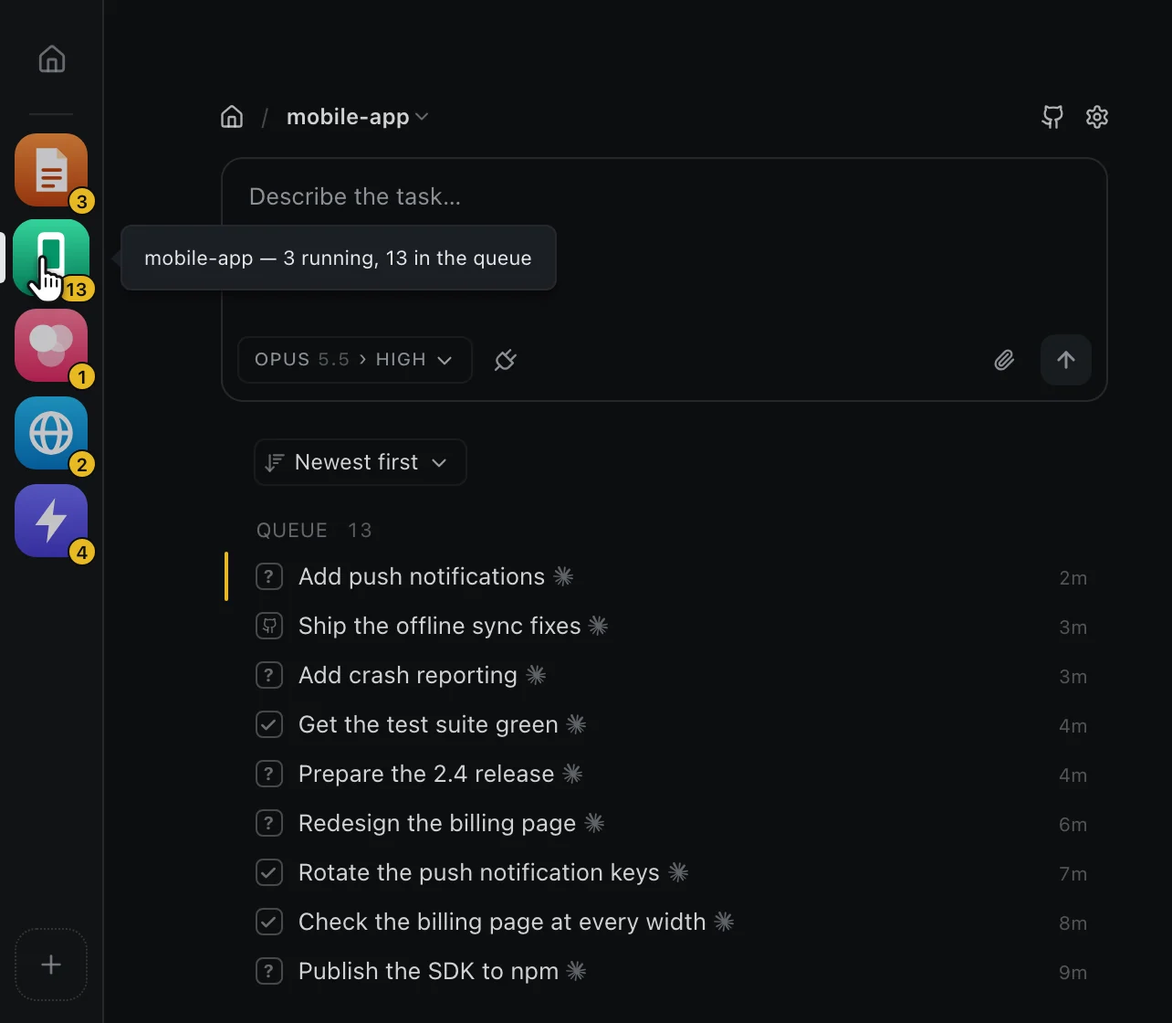
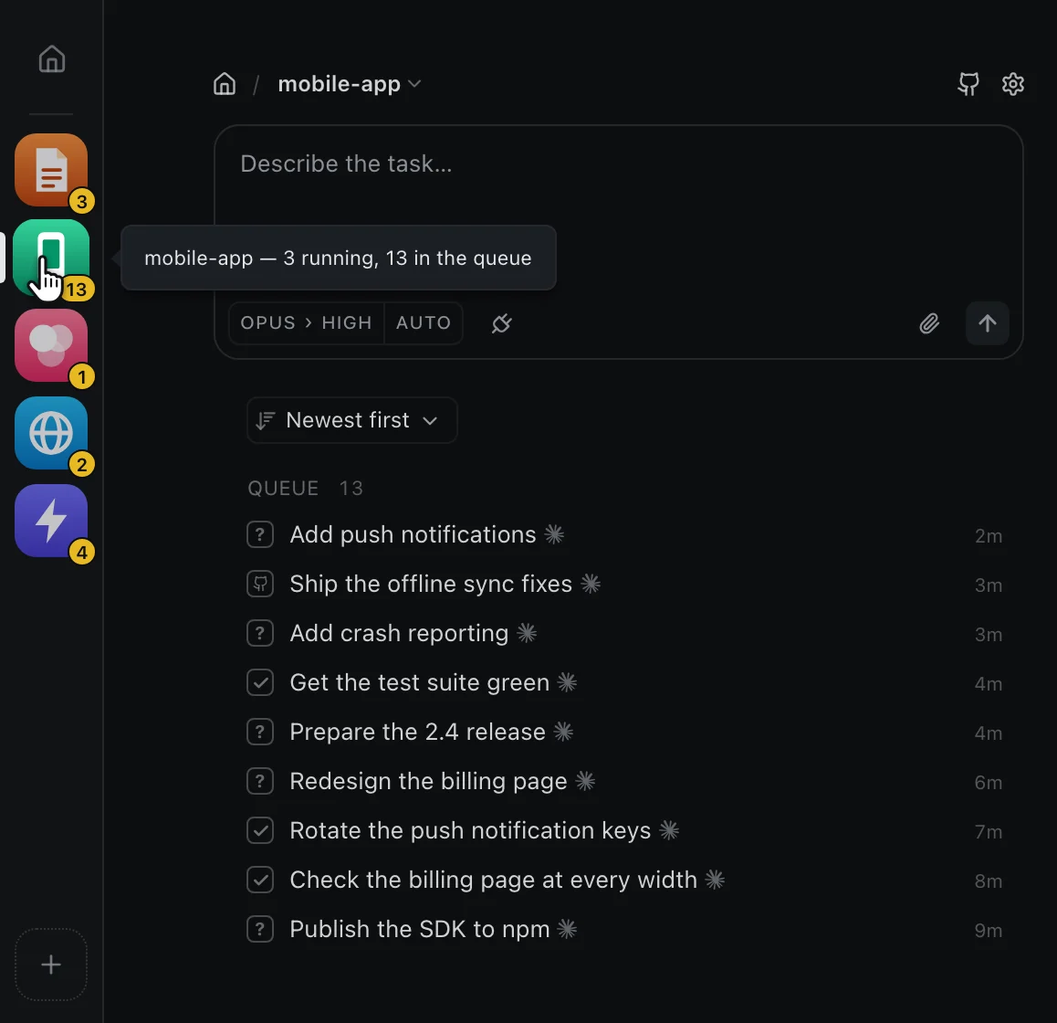
docs(site): rewrite frizz.sh and the README for the one-thread pane
Reshoots the board-dependent screenshots on the pane (hero, Console, workspace, queue, GitHub sign-in;
README board, snooze, goal), re-places the hero callouts on the new layout, and replaces copy that
described the deleted queue card. The README's projects picture becomes the current home page.
shoot-site.mjs targets the pane; the scene seed pins Opus/high so the new-thread box shows the default.

diff --git a/site/index.html b/site/index.html
@@ -4,7 +4,7 @@
     <meta charset="utf-8" />
     <meta name="viewport" content="width=device-width, initial-scale=1" />
     <title>Frizz — the agent console for extreme productivity</title>
-    <meta name="description" content="A web app that runs on your machine. Run many Claude Code, Codex and OpenCode agents from one browser tab; every agent that needs you becomes a card in one queue. No account, no telemetry." />
+    <meta name="description" content="A web app that runs on your machine. Run many Claude Code, Codex and OpenCode agents from one browser tab; every agent that needs you joins one queue. No account, no telemetry." />
     <link rel="canonical" href="https://frizz.sh/" />
     <meta property="og:type" content="website" />
     <meta property="og:title" content="Frizz — the agent console for extreme productivity" />
@@ -57,7 +57,7 @@
             <svg viewBox="144.5 41.7 435.4 428.5"><path class="mark-path" pathLength="1" d="M170.9 260.4C174.5 260.0 185.6 258.7 192.5 257.7C199.4 256.7 206.2 255.5 212.1 254.3C218.0 253.1 222.8 252.0 227.9 250.6C233.0 249.1 238.1 247.6 242.6 245.8C247.1 244.1 251.3 242.2 255.0 240.2C258.7 238.2 262.0 236.1 265.0 233.9C268.0 231.7 270.4 229.6 273.0 227.0C275.6 224.4 278.1 221.5 280.4 218.2C282.7 214.9 284.8 211.4 286.8 207.3C288.7 203.2 290.6 198.5 292.0 193.8C293.5 189.0 294.7 184.1 295.6 178.6C296.6 173.1 297.4 166.7 297.8 160.7C298.2 154.7 298.3 148.9 298.1 142.7C297.9 136.4 297.4 129.3 296.6 123.2C295.8 117.2 294.6 111.3 293.3 106.4C292.0 101.5 290.9 98.2 288.7 93.8C286.6 89.5 282.5 83.4 280.4 80.3C278.3 77.2 277.6 76.8 276.0 75.2C274.4 73.7 272.5 72.1 271.0 71.1C269.4 70.0 268.3 69.5 266.9 69.0C265.5 68.5 264.0 68.1 262.5 68.1C261.1 68.1 259.3 68.4 258.0 68.8C256.8 69.1 256.2 69.3 254.9 70.2C253.6 71.1 251.6 72.9 250.3 74.2C249.0 75.5 248.2 76.4 247.1 78.0C246.0 79.6 244.8 81.5 243.7 83.7C242.5 86.0 241.5 87.7 240.2 91.7C239.0 95.7 237.1 101.9 235.9 108.0C234.8 114.1 233.8 122.5 233.3 128.4C232.7 134.4 232.7 138.8 232.6 143.7C232.5 148.5 232.7 153.4 232.9 157.7C233.1 162.0 233.4 165.6 233.9 169.5C234.4 173.4 234.4 174.3 236.0 181.3C237.6 188.4 237.5 189.6 243.5 211.8C249.6 233.9 266.6 293.8 272.2 314.5C277.8 335.2 275.9 330.1 277.0 335.8C278.1 341.6 278.4 344.1 278.8 348.9C279.2 353.6 279.4 359.3 279.4 364.4C279.5 369.5 279.3 374.4 279.0 379.5C278.7 384.5 278.2 390.3 277.5 394.9C276.9 399.6 276.2 403.5 275.4 407.5C274.5 411.5 273.3 415.7 272.2 419.0C271.1 422.3 270.2 424.5 268.9 427.1C267.6 429.8 265.8 432.7 264.3 434.8C262.7 437.0 261.1 438.6 259.6 439.9C258.0 441.3 256.4 442.2 254.9 442.9C253.4 443.5 252.1 443.9 250.4 443.9C248.6 443.9 246.4 443.5 244.6 442.8C242.7 442.1 241.1 441.1 239.2 439.6C237.3 438.1 235.2 436.1 233.3 433.8C231.3 431.5 229.4 428.7 227.6 425.9C225.8 423.1 224.0 419.9 222.7 417.0C221.3 414.1 220.4 411.6 219.5 408.5C218.6 405.5 217.8 402.7 217.1 398.9C216.3 395.0 215.5 389.8 215.0 385.5C214.5 381.3 214.2 377.5 214.0 373.4C213.8 369.2 213.8 364.9 213.8 360.6C213.9 356.3 214.1 352.0 214.5 347.7C214.9 343.4 215.5 338.7 216.1 334.9C216.7 331.1 217.3 328.3 218.1 325.0C218.9 321.6 219.7 318.7 221.1 314.8C222.5 311.0 224.6 305.8 226.6 301.9C228.6 298.1 230.7 294.9 233.3 291.5C235.9 288.2 238.8 285.0 242.1 282.0C245.5 279.1 249.5 276.3 253.2 273.9C257.0 271.6 260.7 269.8 264.9 268.0C269.1 266.2 273.6 264.6 278.4 263.1C283.3 261.6 285.4 260.9 294.0 259.0C302.6 257.1 321.9 253.4 330.1 251.6C338.3 249.7 339.4 249.1 343.1 247.8C346.9 246.6 349.5 245.7 352.8 244.2C356.0 242.8 359.6 241.1 362.9 239.2C366.3 237.3 369.8 235.0 372.8 232.7C375.8 230.4 378.2 228.1 380.8 225.4C383.3 222.7 386.0 219.0 387.9 216.2C389.8 213.5 390.9 211.5 392.2 208.9C393.5 206.2 394.5 204.7 395.9 200.4C397.4 196.1 399.7 189.4 401.0 183.1C402.3 176.8 403.3 170.0 403.8 162.8C404.4 155.5 404.5 147.1 404.2 139.7C403.9 132.2 403.1 124.8 402.1 118.3C401.0 111.8 398.9 104.7 397.8 100.7C396.6 96.7 396.3 96.7 395.2 94.3C394.0 91.9 392.4 89.0 390.9 86.6C389.5 84.2 387.9 82.0 386.4 80.0C384.9 78.1 383.3 76.4 382.0 75.0C380.6 73.6 379.5 72.7 378.2 71.8C376.9 70.9 375.6 70.0 374.2 69.4C372.8 68.8 371.1 68.4 369.9 68.2C368.7 68.0 368.2 68.0 366.9 68.2C365.7 68.4 363.7 69.0 362.4 69.6C361.1 70.1 360.8 70.1 359.3 71.5C357.7 73.0 354.9 75.8 353.0 78.5C351.1 81.2 349.5 84.2 347.9 88.0C346.3 91.8 344.8 96.5 343.6 101.2C342.4 105.9 341.6 110.5 340.8 116.0C340.0 121.5 339.4 126.7 339.1 134.1C338.8 141.5 339.0 154.3 339.2 160.3C339.4 166.2 339.6 166.2 340.1 169.8C340.7 173.4 340.7 174.7 342.3 181.8C343.9 188.8 344.1 190.9 349.9 212.3C355.7 233.6 371.7 289.5 377.2 309.8C382.7 330.1 381.6 327.6 382.9 334.2C384.2 340.7 384.5 344.1 385.0 349.3C385.5 354.4 385.6 359.8 385.6 364.9C385.6 370.0 385.5 374.9 385.2 380.0C384.9 385.1 384.3 390.8 383.7 395.5C383.1 400.1 382.4 404.0 381.5 407.9C380.6 411.9 379.5 415.9 378.3 419.4C377.0 423.0 375.6 426.4 374.0 429.4C372.4 432.3 370.3 435.2 368.6 437.2C366.9 439.2 365.4 440.3 363.9 441.4C362.3 442.4 360.8 443.1 359.3 443.5C357.8 443.9 356.5 444.1 354.8 443.8C353.1 443.6 350.9 443.0 349.1 442.1C347.3 441.1 345.5 439.8 343.9 438.4C342.3 436.9 341.0 435.6 339.2 433.5C337.5 431.4 335.4 428.4 333.6 425.6C331.9 422.9 330.2 419.8 328.9 416.9C327.5 414.0 326.5 411.3 325.6 408.2C324.7 405.1 323.9 401.9 323.2 398.4C322.5 395.0 322.0 393.3 321.4 387.4C320.9 381.4 320.1 368.9 320.0 362.7C319.9 356.4 320.2 354.1 320.5 349.8C320.9 345.5 321.4 340.7 322.0 336.9C322.5 333.1 323.1 330.3 323.9 327.0C324.6 323.6 325.3 320.7 326.6 316.8C328.0 312.8 329.8 307.8 332.0 303.5C334.2 299.3 336.9 294.9 339.7 291.2C342.5 287.6 345.3 284.7 348.6 281.8C351.9 278.9 355.7 276.2 359.7 273.8C363.8 271.3 368.7 269.0 373.0 267.2C377.2 265.4 380.4 264.3 385.1 262.9C389.7 261.6 392.0 260.8 400.6 258.9C409.3 257.0 428.6 253.3 436.7 251.5C444.9 249.6 446.0 248.9 449.8 247.7C453.5 246.5 455.7 245.7 459.2 244.1C462.8 242.5 467.5 240.2 470.9 238.2C474.2 236.3 476.6 234.6 479.3 232.4C482.0 230.3 484.7 227.9 487.2 225.1C489.7 222.4 492.5 218.7 494.4 215.9C496.2 213.1 497.3 211.1 498.6 208.5C499.9 205.8 501.2 203.0 502.3 200.0C503.5 196.9 504.6 193.5 505.5 190.2C506.4 186.9 506.9 185.6 507.8 180.1C508.6 174.6 509.9 163.1 510.4 157.1C510.9 151.1 510.6 148.4 510.6 144.2C510.5 140.0 510.5 137.2 509.9 131.8C509.3 126.3 507.8 116.1 507.0 111.5C506.1 106.8 505.8 106.4 505.0 103.8C504.2 101.2 503.3 98.5 502.1 95.8C500.8 93.1 499.3 90.3 497.7 87.6C496.1 84.9 494.0 81.9 492.4 79.8C490.8 77.6 489.5 76.3 487.9 74.8C486.3 73.2 484.4 71.7 482.8 70.7C481.3 69.7 479.9 69.2 478.7 68.8C477.5 68.4 477.3 68.1 475.8 68.2C474.3 68.2 471.8 68.2 469.8 69.0C467.8 69.8 465.6 71.2 463.6 73.2C461.6 75.2 459.4 78.0 457.6 80.9C455.9 83.8 454.4 87.0 453.1 90.4C451.8 93.9 450.7 97.3 449.7 101.7C448.7 106.0 447.6 111.5 446.9 116.5C446.2 121.6 445.7 125.0 445.4 132.0C445.1 139.0 445.2 152.5 445.3 158.6C445.4 164.6 445.7 164.9 446.2 168.4C446.6 172.0 446.4 172.6 448.1 180.0C449.8 187.4 450.1 190.2 456.2 212.8C462.3 235.4 479.2 294.6 484.9 315.6C490.5 336.5 488.8 332.2 489.9 338.6C491.0 345.0 491.2 348.6 491.5 353.9C491.8 359.2 491.9 364.6 491.8 370.3C491.6 376.1 491.3 382.7 490.7 388.2C490.2 393.8 489.5 398.6 488.6 403.5C487.6 408.4 486.5 413.3 485.0 417.7C483.6 422.1 481.7 426.4 480.0 429.7C478.2 433.0 476.4 435.4 474.4 437.5C472.5 439.6 470.3 441.4 468.2 442.4C466.2 443.5 463.9 443.8 462.2 443.9C460.4 444.0 459.5 443.7 457.8 443.1C456.2 442.5 454.1 441.4 452.4 440.2C450.7 439.0 449.2 437.6 447.5 435.8C445.8 434.0 443.9 431.6 442.2 429.3C440.6 427.0 439.0 424.4 437.6 421.9C436.2 419.4 435.1 417.1 434.0 414.5C432.9 411.8 432.0 409.1 431.2 406.0C430.3 402.9 429.6 399.5 428.9 395.9C428.3 392.3 427.7 388.5 427.3 384.6C426.9 380.6 426.5 376.5 426.4 372.4C426.2 368.2 426.1 363.9 426.2 359.6C426.4 355.3 426.6 350.9 427.0 346.6C427.4 342.4 428.0 337.7 428.7 333.9C429.3 330.1 429.9 327.2 430.8 323.9C431.6 320.6 432.7 317.0 433.8 313.9C434.9 310.8 435.7 308.4 437.4 305.1C439.1 301.8 441.3 297.6 443.8 294.1C446.3 290.6 449.4 286.9 452.4 284.0C455.4 281.0 458.2 278.8 461.9 276.3C465.7 273.8 470.3 271.2 474.9 269.1C479.5 267.0 484.1 265.2 489.5 263.5C494.9 261.8 500.7 260.3 507.3 258.8C513.9 257.3 521.8 255.9 529.4 254.7C537.1 253.5 549.3 252.1 553.3 251.6" fill="none" stroke="url(#fffInk)" stroke-width="20.73" stroke-linecap="round" stroke-linejoin="round"/></svg>
           </div>
           <h1 class="rise d1">The <span class="swashed"><span>agent console</span><svg class="swash" viewBox="0 0 400 44" preserveAspectRatio="none" aria-hidden="true"><path d="M6 30 C 70 22, 150 17, 236 16.5 C 300 16, 352 18, 394 23" fill="none" stroke="url(#swashInk)" stroke-linecap="round" stroke-linejoin="round" vector-effect="non-scaling-stroke"/></svg></span> for extreme productivity.</h1>
-          <p class="sub rise d2">A web app that runs on your own machine. Start as many Claude&nbsp;Code, Codex and OpenCode agents as you like from one browser tab and let them work: the moment one needs you, it becomes a card in a single queue.</p>
+          <p class="sub rise d2">A web app that runs on your own machine. Start as many Claude&nbsp;Code, Codex and OpenCode agents as you like from one browser tab and let them work: the moment one needs you, it joins a single queue.</p>
           <div class="cta rise d3">
             <div class="install" data-copy="npx frizz"><span class="dollar" aria-hidden="true">$</span><code class="cmd">npx frizz</code><button class="copy" type="button" aria-label="Copy npx frizz"><svg class="idle" viewBox="0 0 24 24" aria-hidden="true"><rect width="14" height="14" x="8" y="8" rx="2" ry="2"/><path d="M4 16c-1.1 0-2-.9-2-2V4c0-1.1.9-2 2-2h10c1.1 0 2 .9 2 2"/></svg><svg class="done" viewBox="0 0 24 24" aria-hidden="true"><path d="M20 6 9 17l-5-5"/></svg></button><span class="sr-only" role="status" aria-live="polite"></span></div>
           </div>
@@ -68,29 +68,29 @@
           <div class="window" id="window">
             <div class="browserbar" aria-hidden="true"><span class="dots"><i></i><i></i><i></i></span><span class="url">localhost:9393</span></div>
             <div class="shot" id="shot">
-              <img src="/img/board.webp?v=ae0e9951" width="2200" height="1375" alt="The Frizz board in a browser at localhost:9393: a rail of project icons with counts, the queue, running and snoozed lists, and an open thread with an answer picked, a note typed in the reply box, and a popover naming its two running sub-agents." />
-              <span class="num-marker" style="left:6%;top:18%" aria-hidden="true">1</span>
-              <span class="num-marker" style="left:6%;top:38%" aria-hidden="true">2</span>
-              <span class="num-marker" style="left:6%;top:68.2%" aria-hidden="true">3</span>
-              <span class="num-marker" style="left:60.5%;top:17.8%" aria-hidden="true">4</span>
-              <span class="num-marker" style="left:96.7%;top:53.7%" aria-hidden="true">5</span>
-              <span class="num-marker" style="left:96.7%;top:69.6%" aria-hidden="true">6</span>
+              <img src="/img/board.webp?v=9ed5073f" width="2200" height="1375" alt="The Frizz board in a browser at localhost:9393: a rail of project icons with counts, the queue, running and snoozed lists, the first thread in the queue open beside them with an answer picked and a note typed in the reply box, and a rail beside the thread listing its sub-agents, shell, pull request, files and edited files." />
+              <span class="num-marker" style="left:1.95%;top:48%" aria-hidden="true">1</span>
+              <span class="num-marker" style="left:5.4%;top:38.2%" aria-hidden="true">2</span>
+              <span class="num-marker" style="left:4.6%;top:81.2%" aria-hidden="true">3</span>
+              <span class="num-marker" style="left:41.5%;top:14.4%" aria-hidden="true">4</span>
+              <span class="num-marker" style="left:61.5%;top:50.3%" aria-hidden="true">5</span>
+              <span class="num-marker" style="left:88%;top:26%" aria-hidden="true">6</span>
             </div>
           </div>
           <svg class="leaders" id="leaders" aria-hidden="true"></svg>
           <div class="callout l" data-x="3.4" data-y="9.8" data-side="l"><b>Every project</b><span>Each has its own icon and a count of what needs you.</span></div>
-          <div class="callout l" data-x="8.7" data-y="42.2" data-side="l"><b>One queue</b><span>Every agent that needs you, in one list.</span></div>
-          <div class="callout l" data-x="8.4" data-y="68.2" data-side="l"><b>Snooze</b><span>Park a card until later.</span></div>
-          <div class="callout r" data-x="94.2" data-y="17.8" data-side="r"><b>Steer it mid-turn</b><span>It reads your message at its next step.</span></div>
-          <div class="callout r" data-x="93.0" data-y="53.7" data-side="r"><b>Answer with a click</b><span>Pick an option and add a note.</span></div>
-          <div class="callout r" data-x="94.7" data-y="69.6" data-side="r"><b>What's running</b><span>Sub-agents, shells, PRs and files. Hover a count.</span></div>
+          <div class="callout l" data-x="5.4" data-y="38.2" data-side="l"><b>One queue</b><span>Every agent that needs you, in one list.</span></div>
+          <div class="callout l" data-x="5.85" data-y="81.2" data-side="l"><b>Snooze</b><span>Park a thread until later.</span></div>
+          <div class="callout r" data-x="74.2" data-y="14.4" data-side="r"><b>Steer it mid-turn</b><span>It reads your message at its next step.</span></div>
+          <div class="callout r" data-x="61.5" data-y="50.3" data-via="37.2" data-side="r"><b>Answer with a click</b><span>Pick an option and add a note.</span></div>
+          <div class="callout r" data-x="98.2" data-y="55" data-side="r"><b>What's running</b><span>Sub-agents, shells, PRs and files, beside the thread.</span></div>
           <ol class="legend" aria-label="What the board shows">
             <li><span class="k">1</span><b>Every project</b><span>Each has its own icon and a count of what needs you.</span></li>
             <li><span class="k">2</span><b>One queue</b><span>Every agent that needs you, in one list.</span></li>
-            <li><span class="k">3</span><b>Snooze</b><span>Park a card until later.</span></li>
+            <li><span class="k">3</span><b>Snooze</b><span>Park a thread until later.</span></li>
             <li><span class="k">4</span><b>Steer it mid-turn</b><span>It reads your message at its next step.</span></li>
             <li><span class="k">5</span><b>Answer with a click</b><span>Pick an option and add a note.</span></li>
-            <li><span class="k">6</span><b>What's running</b><span>Sub-agents, shells, PRs and files. Hover a count.</span></li>
+            <li><span class="k">6</span><b>What's running</b><span>Sub-agents, shells, PRs and files, beside the thread.</span></li>
           </ol>
         </div>
       </section>
@@ -115,8 +115,8 @@
           </div>
           <div class="features">
             <article class="feature row fit flip">
-              <div class="row-text"><h3>The queue</h3><p>Agents work on their own. A thread joins the queue when it has a question, finishes, or needs you to do something. Mark it as done and it moves out.</p></div>
-              <div class="row-shot narrow"><img src="/img/f-queue.webp?v=3b5c3f8e" width="1284" height="1120" loading="lazy" decoding="async" alt="The left side of a project&#x27;s page: a box for a new task, then a queue of threads with an icon for what each one needs, and the pointer on a project icon, naming what that project has waiting and running." /></div>
+              <div class="row-text"><h3>The queue</h3><p>Agents work on their own. A thread joins the queue when it has a question, finishes, or needs you to do something. Mark it as done and the next one opens in its place, or press <kbd>⇧⌘⏎</kbd> to send a reply and move on.</p></div>
+              <div class="row-shot narrow"><img src="/img/f-queue.webp?v=6cdddd97" width="1158" height="1120" loading="lazy" decoding="async" alt="The left side of a project&#x27;s page: a box for a new task, then a queue of threads with an icon for what each one needs, and the pointer on a project icon, naming what that project has waiting and running." /></div>
             </article>
             <article class="feature row">
               <div class="row-text"><h3>Multiple-choice answers</h3><p>An agent that needs a decision asks with lettered options and marks the one it recommends. Click one and press Enter. A note typed in the box goes with it.</p></div>
@@ -143,12 +143,12 @@
               <div class="row-shot thread"><img src="/img/f-steps.webp?v=f937c117" width="1500" height="887" loading="lazy" decoding="async" alt="A thread resting on a to-do list of three steps, with the first one ticked." /></div>
             </article>
             <article class="feature row">
-              <div class="row-text"><h3>Snooze</h3><p>Park a card for an hour, until tomorrow at 9, or until a time you pick. Attach a prompt and the thread wakes up working on it.</p></div>
+              <div class="row-text"><h3>Snooze</h3><p>Park a thread for an hour, until tomorrow at 9, or until a time you pick. Attach a prompt and the thread wakes up working on it.</p></div>
               <div class="row-shot thread"><img src="/img/f-snooze.webp?v=a9644768" width="1500" height="870" loading="lazy" decoding="async" alt="The snooze menu open on a thread, offering 1h, tomorrow at 9:00 AM, 1d, 3d, 1w and a custom time." /></div>
             </article>
             <article class="feature row flip">
-              <div class="row-text"><h3>See what's happening</h3><p>When a thread rests on its own work, its card lists the sub-agents and shells still running.</p></div>
-              <div class="row-shot thread"><img src="/img/f-wait.webp?v=92b9e6f7" width="1500" height="1023" loading="lazy" decoding="async" alt="A thread resting on one running sub-agent and one background shell, both listed on its card." /></div>
+              <div class="row-text"><h3>See what's happening</h3><p>When a thread rests on its own work, it lists the sub-agents and shells still running.</p></div>
+              <div class="row-shot thread"><img src="/img/f-wait.webp?v=92b9e6f7" width="1500" height="1023" loading="lazy" decoding="async" alt="A thread resting on one running sub-agent and one background shell, both listed on its Awaiting card." /></div>
             </article>
           </div>
         </div>
@@ -166,12 +166,12 @@
               <div class="big-shot browser"><div class="browserbar" aria-hidden="true"><span class="dots"><i></i><i></i><i></i></span><span class="url">localhost:9393</span></div><img src="/img/f-home.webp?v=15a3fb18" width="2200" height="1160" loading="lazy" decoding="async" alt="The home page: five project icons with counts on them, the pointer on one naming what it has waiting and running, a button to add a project, and a switch to the Console." /></div>
             </article>
             <article class="feature row level">
-              <div class="row-text"><h3>Every repo at once, for parallel work</h3><p>The Console puts every open project on one board, grouped by status or by project. Start a thread in any repo and answer any card from the same page.</p></div>
-              <div class="big-shot browser"><div class="browserbar" aria-hidden="true"><span class="dots"><i></i><i></i><i></i></span><span class="url">localhost:9393/console</span></div><img src="/img/f-console.webp?v=2578cebd" width="2200" height="1314" loading="lazy" decoding="async" alt="The Console: threads from five projects grouped under each project&#x27;s name, every project on the rail, and thread cards beside them." /></div>
+              <div class="row-text"><h3>Every repo at once, for parallel work</h3><p>The Console puts every open project on one board, grouped by status or by project. Start a thread in any repo and answer any of them from the same page.</p></div>
+              <div class="big-shot browser"><div class="browserbar" aria-hidden="true"><span class="dots"><i></i><i></i><i></i></span><span class="url">localhost:9393/console</span></div><img src="/img/f-console.webp?v=e9f1c0a6" width="2200" height="1314" loading="lazy" decoding="async" alt="The Console: threads from five projects grouped under each project&#x27;s name, every project on the rail, and one of the threads open beside them." /></div>
             </article>
             <article class="feature row level flip">
               <div class="row-text"><h3>Focus on one repo at a time</h3><p>Each project has its own workspace, with its own queue and threads. Other projects stay out of view.</p></div>
-              <div class="big-shot browser"><div class="browserbar" aria-hidden="true"><span class="dots"><i></i><i></i><i></i></span><span class="url">localhost:9393/project/acme-api</span></div><img src="/img/f-workspace.webp?v=73434b9b" width="2200" height="1314" loading="lazy" decoding="async" alt="One project&#x27;s page: its queue and running threads on the left and one open thread on the right, with no other project in view." /></div>
+              <div class="big-shot browser"><div class="browserbar" aria-hidden="true"><span class="dots"><i></i><i></i><i></i></span><span class="url">localhost:9393/project/acme-api</span></div><img src="/img/f-workspace.webp?v=33a782f2" width="2200" height="1314" loading="lazy" decoding="async" alt="One project&#x27;s page: its queue and running threads on the left and one open thread on the right, with no other project in view." /></div>
             </article>
             <article class="feature row level">
               <div class="row-text"><h3>Full-screen threads, for maximum focus</h3><p>Expand a thread and a rail beside it lists its sub-agents, shells, watched PRs, saved files, and edited files.</p></div>
@@ -214,7 +214,7 @@
           <div class="features">
             <article class="feature row flip">
               <div class="row-text"><h3>Live sub-agents</h3><p>Open a sub-agent to read its transcript as it works. On a Claude Code thread, you can type to it and steer it.</p></div>
-              <div class="row-shot"><img src="/img/f-subagent.webp?v=d9117faf" width="1398" height="624" loading="lazy" decoding="async" alt="A thread resting on five running sub-agents listed on its card, with the pointer on one of them." /></div>
+              <div class="row-shot"><img src="/img/f-subagent.webp?v=d9117faf" width="1398" height="624" loading="lazy" decoding="async" alt="A thread resting on five running sub-agents listed on its Awaiting card, with the pointer on one of them." /></div>
             </article>
             <article class="feature row">
               <div class="row-text"><h3>Goals</h3><p>Frizz re-sends a goal every time the agent stops, on a clock you set, or both. It runs until you switch it off or the agent says it is finished.</p></div>
@@ -242,7 +242,7 @@
                   <text x="420" y="106" text-anchor="end">Stops when the thread is marked done</text>
                 </svg>
               </div>
-              <div class="row-shot thread"><img src="/img/f-monitor.webp?v=25a5c56c" width="1500" height="1023" loading="lazy" decoding="async" alt="A resting thread: a line in the transcript shows a monitor printed one line, the agent fixed the error, and its card lists the monitor as still running." /></div>
+              <div class="row-shot thread"><img src="/img/f-monitor.webp?v=25a5c56c" width="1500" height="1023" loading="lazy" decoding="async" alt="A resting thread: a line in the transcript shows a monitor printed one line, the agent fixed the error, and its Awaiting card lists the monitor as still running." /></div>
             </article>
             <article class="feature row fit">
               <div class="row-text"><h3>Claude Code, Codex and OpenCode, side by side</h3><p>Pick the agent, model, and effort for each new thread. They can all run on the same repo at once.</p></div>
@@ -263,7 +263,7 @@
               <div class="row-text"><h3>Sign in to GitHub</h3><p>Frizz shows a code, and you enter it on GitHub. Its GitHub app can only read, so the watchers keep working while your screen is locked, and they can&#x27;t push or merge anything.</p>
                 <p class="fine">The one exception is a comment on a commit, which GitHub allows with code access.</p>
               </div>
-              <div class="row-shot"><img src="/img/f-signin.webp?v=e58d935e" width="1500" height="989" loading="lazy" decoding="async" alt="The Sign in to GitHub sheet over the dimmed board: a device code to enter on GitHub, a button that copies it and opens GitHub, and a note saying access is read-only." /></div>
+              <div class="row-shot"><img src="/img/f-signin.webp?v=6c003c27" width="1500" height="989" loading="lazy" decoding="async" alt="The Sign in to GitHub sheet over the dimmed board: a device code to enter on GitHub, a button that copies it and opens GitHub, and a note saying access is read-only." /></div>
             </article>
             <article class="feature row">
               <div class="row-text"><h3>Threads from GitHub</h3><p>Browse issues and pull requests from the composer, sorted by recency or reactions. A badge marks issues that already have a PR. Shift-click a range and start one thread for each, with a prompt you can edit.</p></div>
@@ -293,8 +293,8 @@
               <div class="row-shot thread"><img src="/img/f-issue.webp?v=9963fcc4" width="1500" height="1091" loading="lazy" decoding="async" alt="A thread resting on three issues, with each title, its comment count, and one closed." /></div>
             </article>
             <article class="feature row">
-              <div class="row-text"><h3>Snooze till there's news</h3><p>Snooze a card that is waiting on a PR and it leaves the queue. It comes back when the PR has new activity.</p></div>
-              <div class="row-shot"><img src="/img/f-snooze-pr.webp?v=5b11ebf6" width="1398" height="638" loading="lazy" decoding="async" alt="A card listing five pull requests, with the pointer on a Snooze button labeled Hides card until new activity is detected." /></div>
+              <div class="row-text"><h3>Snooze till there's news</h3><p>Snooze a thread that is waiting on a PR and it leaves the queue. It comes back when the PR has new activity.</p></div>
+              <div class="row-shot"><img src="/img/f-snooze-pr.webp?v=5b11ebf6" width="1398" height="638" loading="lazy" decoding="async" alt="An Awaiting card listing five pull requests, with the pointer on a Snooze button labeled Hides card until new activity is detected." /></div>
             </article>
             <article class="feature row flip">
               <div class="row-text"><h3>GitHub hovercards</h3><p>Hover an issue, PR, or commit reference anywhere in a thread to see its state, labels, author, diffstat, and an excerpt. Frizz fetches them ahead of time, so the card opens at once.</p></div>

diff --git a/README.md b/README.md
@@ -48,7 +48,7 @@ $ npx frizz
 A browser tab opens on the dashboard at `http://127.0.0.1:9393/`. Add a **project** there — any folder: a repo, a jj checkout, or a folder of scripts. Frizz has no opinion about version control and does not require Git. Each project gets its own board at `/project/<name>`, and from then on running `npx frizz` inside that folder opens its board. Frizz always listens on port 9393 (19393 if something else holds it), and one server serves every project on the machine, so a second run joins the server already running rather than starting another. Runs on macOS, Linux, and Windows.
 
 <p align="center">
-  <img src="assets/board.png" alt="The Frizz board: the project rail down the left, the composer and the queue of threads beside it, and on the right a card where an agent is asking an answerable question with lettered options, with its snooze clock and done check in the card's header." width="100%">
+  <img src="assets/board.png" alt="The Frizz board: the project rail down the left, the composer and the queue of threads beside it, the first thread in the queue open in the middle with an agent asking an answerable question with lettered options, and a rail on the right listing that thread's sub-agents, shell, pull request, files and edited files." width="100%">
 </p>
 
 <br/>
@@ -57,11 +57,11 @@ A browser tab opens on the dashboard at `http://127.0.0.1:9393/`. Add a **projec
 
 Frizz is a browser tab, a queue, and the agent CLIs you already pay for. It brings no model of its own, automates none of your workflow, and keeps every opinion it does have in a text file you can edit.
 
-- 🗂 **A task queue, not a sidebar.** Every agent that comes to rest needing you becomes a card. Work the queue top to bottom instead of polling ten terminals.
+- 🗂 **A task queue, not a session list.** Every agent that comes to rest needing you joins one queue, and the thread you open sits beside it. Work the queue top to bottom instead of polling ten terminals.
 - 📁 **Projects.** Every folder you add gets its own board, all on one server. The home page lists them, and the project rail switches between them with each queue's count on its icon.
 - 🔌 **Headless.** Every thread's agent runs in its own detached background process. Close the tab, quit the browser, ctrl-c the server, reboot — your threads are all still there when you come back, and Frizz reconnects to the ones still running rather than replaying them from disk.
 - 🤖 **Claude Code, Codex and OpenCode.** Pick the agent per thread and run them against the same repo at once. Frizz supports Claude Code and Codex subscriptions — your sign-in, your settings, your skills, driven by a copy of each CLI that Frizz pins and provisions itself. OpenCode runs from your own install, and its free models need no account.
-- 😴 **Snooze.** Not everything needs an answer now. Park a card for an hour, until tomorrow morning, or until a date you pick — optionally with a follow-up prompt attached, so the thread wakes up already working on what you told it to do next.
+- 😴 **Snooze.** Not everything needs an answer now. Park a thread for an hour, until tomorrow morning, or until a date you pick — optionally with a follow-up prompt attached, so the thread wakes up already working on what you told it to do next.
 - 🎯 **Goals.** Give a thread a standing goal that Frizz re-sends as a prompt — every time it comes to rest, on a clock you set in minutes, or both. Good for "keep going until CI is green" without you re-asking. A scheduled one reaches the agent even mid-turn, so it can nudge a thread that never stops. Switch it off whenever, or let the agent say it's finished.
 - 🐙 **GitHub integration.** Browse your repo's issues and pull requests without leaving the composer, and turn a selection of them into threads. Workers can read issues, diffs, and CI on their own.
 - 👀 **Built-in CI and PR watchers.** A worker waiting on a build or a review doesn't hand the thread back to you to be told "keep going." It watches, and picks the work back up when the run goes green or a review lands.
@@ -73,18 +73,18 @@ Frizz is a browser tab, a queue, and the agent CLIs you already pay for. It brin
 Every folder you add becomes a project with its own board, all served by the one Frizz on your machine. The dashboard at `http://127.0.0.1:9393/` lists them, and it is where `npx frizz` lands when it is run outside one.
 
 <p align="center">
-  <img src="assets/projects.png" alt="The Frizz home page: a rail of project icons down the left, and four project cards — design-system, acme-web, acme-api, frizz — each with its home-relative path and when it was last opened, plus an Add a project card." width="100%">
+  <img src="assets/projects.png" alt="The Frizz home page: a switch between Projects and the Console above an Add a project button and five project icons with counts on them, and the pointer on acme-api, naming 3 running and 4 in the queue." width="100%">
 </p>
 
 The project rail keeps every project one click away, with each queue's count on its icon. It is off by default; switch it on under **Settings → Project sidebar**.
 
 ### The queue
 
-A sidebar of sessions makes every agent something you have to remember to go check. Frizz gives you one queue instead.
+A list of sessions makes every agent something you have to remember to go check. Frizz gives you one queue instead.
 
-When an agent comes to rest needing you, a card is added to it. You can quickly evaluate what it has done since your last message and decide to answer its questions, steer it, snooze the card, or mark the session complete. You're continuously presented with a set of action items in one place, instead of constantly switching back and forth between sessions.
+When an agent comes to rest needing you, its thread joins the queue. Open one and it takes the space beside the list, where you read what the agent has done since your last message and answer its questions, steer it, snooze it, or mark it done. Done and snooze bring up the next thread in the queue, and ⇧⌘⏎ sends a reply and moves on. You work through one set of action items in one place, instead of switching back and forth between sessions.
 
-The queue is strict about what earns a card, which is what keeps it a real todo list. A thread resting only because *its own* helpers are still working isn't waiting on you, so it stays quiet until they're back. Nothing shows up just to be dismissed.
+The queue is strict about what joins it, which is what keeps it a real todo list. A thread resting only because *its own* helpers are still working isn't waiting on you, so it stays quiet until they're back. Nothing shows up just to be dismissed.
 
 **Threads are built to run without you.** A worker keeps going until it reaches something only you can settle — a product call, a fork where guessing wrong is expensive to undo, an irreversible action — and then it hands back an answerable *question* rather than a wall of text for you to re-read and interpret.
 
@@ -114,10 +114,10 @@ Workers can also read issues, diffs, and CI on their own — but only read. A wo
 
 ### Snooze
 
-Park a card for an hour, until tomorrow morning, or until a date you pick. Attach a follow-up prompt and the thread wakes up already working on it.
+Park a thread for an hour, until tomorrow morning, or until a date you pick. Attach a follow-up prompt and the thread wakes up already working on it.
 
 <p align="center">
-  <img src="assets/snooze.png" alt="The snooze menu open from the alarm clock in a queue card's header, offering 1 hour, tomorrow at 9am, 1 day, 3 days, 1 week, and a custom time and prompt." width="100%">
+  <img src="assets/snooze.png" alt="The snooze menu open from the alarm clock in a thread's header, offering 1 hour, tomorrow at 9am, 1 day, 3 days, 1 week, and a custom time and prompt." width="100%">
 </p>
 
 ### Goal
@@ -125,7 +125,7 @@ Park a card for an hour, until tomorrow morning, or until a date you pick. Attac
 Give a thread a standing goal. Frizz sends it as a prompt every time the agent comes to rest, on a clock you set in minutes, or both — a scheduled send reaches the agent even mid-turn, without cutting off work in progress.
 
 <p align="center">
-  <img src="assets/goal.png" alt="The goal panel open above a queue card's prompt box: a goal saying to keep going until the test suite is green, sent at every rest and every 30 minutes." width="100%">
+  <img src="assets/goal.png" alt="The goal panel open above a thread's prompt box: a goal saying to keep going until the test suite is green, sent at every rest and every 30 minutes." width="100%">
 </p>
 
 ### Launch prefix
@@ -269,10 +269,10 @@ Frizz has its own small vocabulary. Most of it names a feature, so this doubles 
 | **Project** | A folder you added to Frizz. Each has its own board at `/project/<name>`; one server holds all of them. |
 | **Thread** | One effort, start to finish. Not a chat tab and not a branch. The session *is* the thread — there's no sidecar document to keep in sync, and dispatching doesn't write a file into your repo. |
 | **Worker** | The agent driving a thread: a real Claude Code, Codex or OpenCode process, running as *you*, with your credentials and your CLI config. |
-| **Sub-agent** | A helper a worker dispatches for an independent prong of its own task. Frizz binds each one back to its parent, so the fan-out is visible under the parent's card. |
+| **Sub-agent** | A helper a worker dispatches for an independent prong of its own task. Frizz binds each one back to its parent, so the fan-out is listed under the parent thread. |
 | **Rested** | An agent that has ended its turn and is waiting on a human. A rested thread isn't idle, it's *your move*. |
-| **The queue** | The single list of threads that need you. A thread only earns a card when it genuinely wants a human. |
-| **Snooze** | Hide a card until later — an hour, tomorrow morning, or a date you pick — optionally with a follow-up prompt attached. |
+| **The queue** | The single list of threads that need you. A thread only joins it when it genuinely wants a human. |
+| **Snooze** | Hide a thread until later — an hour, tomorrow morning, or a date you pick — optionally with a follow-up prompt attached. |
 | **Goal** | A standing prompt a thread receives on its own — every time it rests, on a clock, or both — until you switch it off or the agent says it's done. |
 | **Scratch directory** | A folder each thread's worker gets for its own notes, under the project's `.frizz/threads/`. It is where a worker keeps what a summary of a long conversation would otherwise lose. Frizz reads nothing in it. |
 | **`FRIZZ.md`** | An optional file at your repo root whose contents are injected into every thread, for when you want agents to follow your repo's own norms. Only agents Frizz starts read it. |
